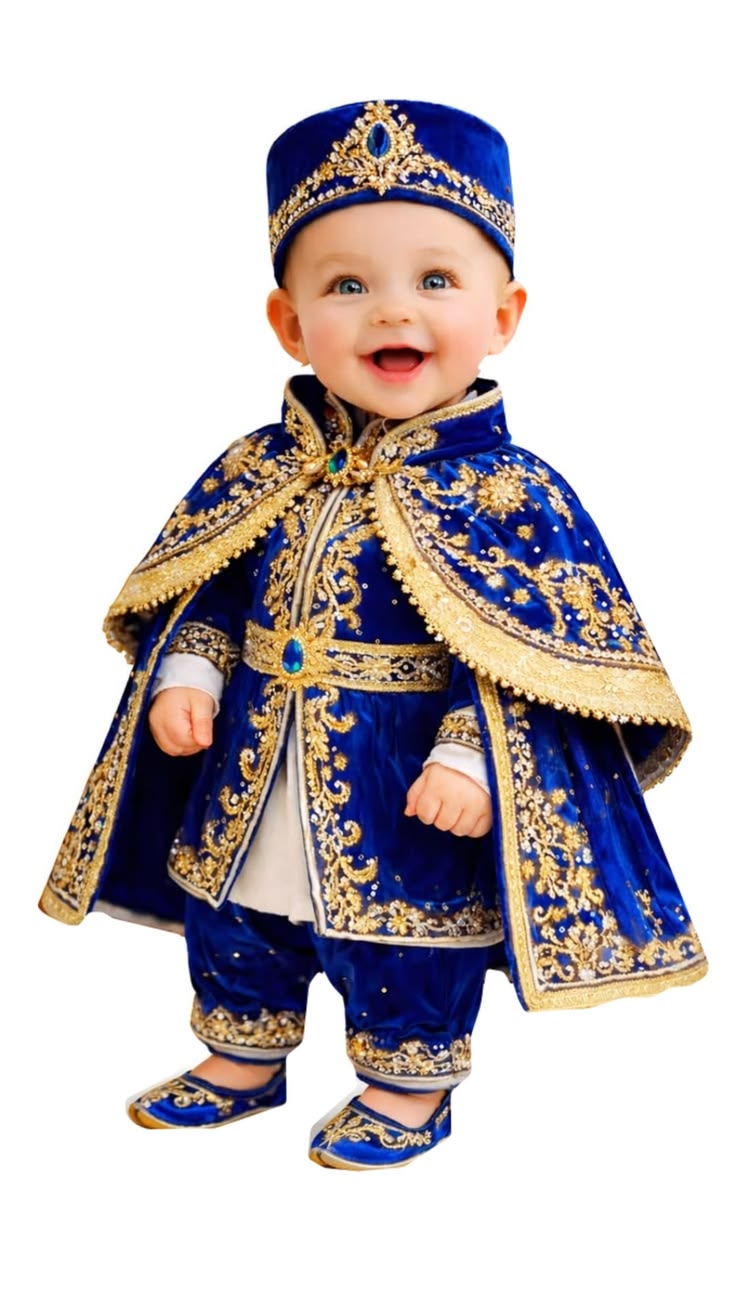
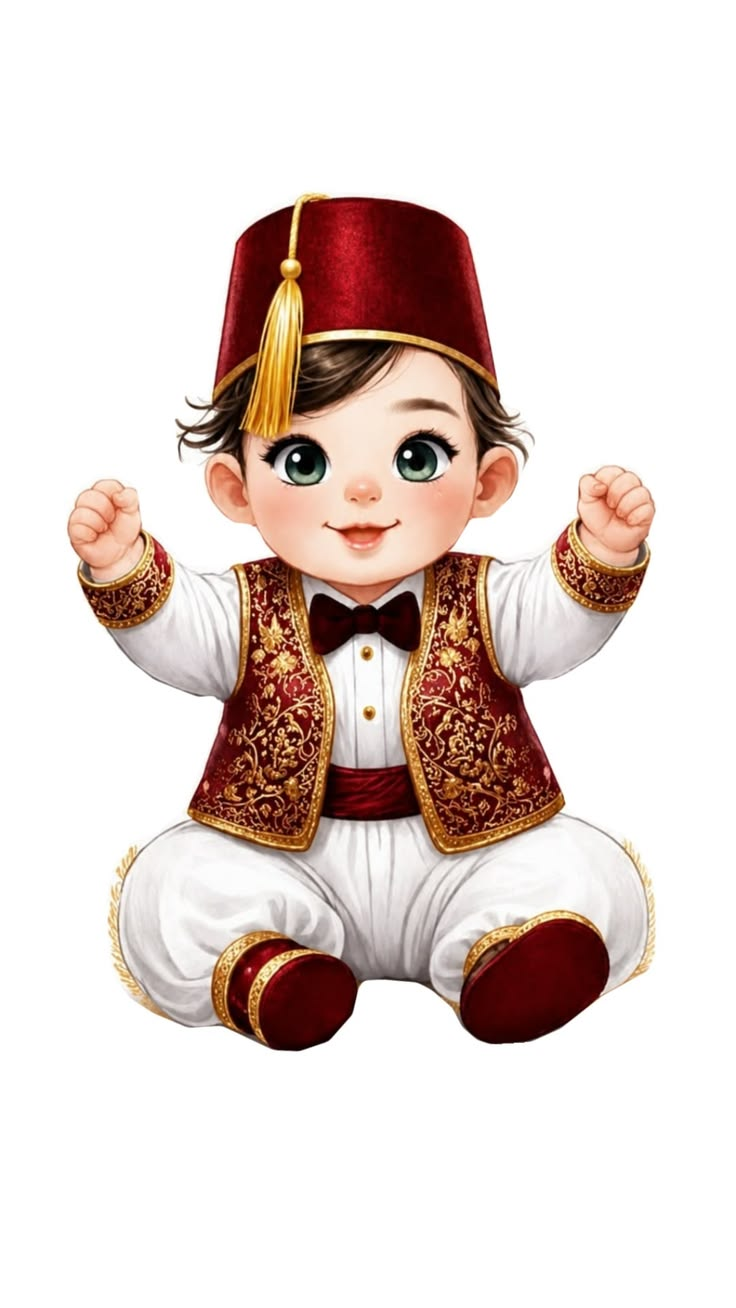
up

diff --git a/style.css b/style.css
@@ -122,20 +122,20 @@ body {
 }
 
 .gallery-item {
-    height: 180px;
-    background-size: cover;
-    background-position: center;
-    border-radius: 12px;
-    overflow: hidden;
     position: relative;
-    box-shadow: 0 4px 15px rgba(0,0,0,0.3);
-    text-decoration: none;
+    height: 250px; /* يمكنكِ التحكم بارتفاع المربع من هنا */
+    border-radius: 15px;
+    overflow: hidden;
     display: flex;
-    flex-direction: column;
-    justify-content: flex-end;
-    padding: 15px;
-
+    align-items: flex-end;
+    text-decoration: none;
+    box-shadow: 0 4px 15px rgba(0, 0, 0, 0.3);
+    transition: transform 0.3s ease, box-shadow 0.3s ease;
     
+    /* الخصائص المسؤولة عن ملء الصورة للمربع بشكل متناسق ومثالي */
+    background-size: cover !important;
+    background-position: center center !important;
+    background-repeat: no-repeat !important;
 }
 
 
